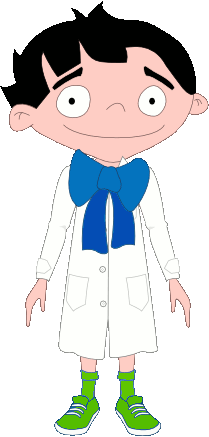
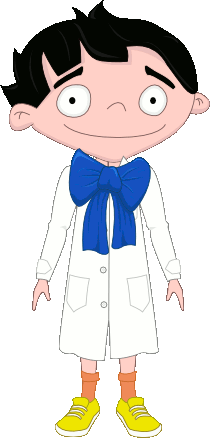
More customization Fix widget coordinates

diff --git a/Saludame.activity/customization.py b/Saludame.activity/customization.py
@@ -17,26 +17,51 @@ class CustomizationWindow(window.Window):
         self.add_child(self.kid)
         
         self.btn_close = utilities.TextButton(self.rect, pygame.Rect((770, 5), (30, 30)), 1, "X", 30, (0, 0, 0), self._cb_button_click_close)
-        self.btn_eyes = utilities.TextButton(self.rect, pygame.Rect((500, 200), (70, 30)), 1, _("Shoes"), 30, (0, 0, 0), self._cb_button_shoes)
-        self.buttons += [self.btn_close, self.btn_eyes]
-        self.widgets += [self.btn_close, self.btn_eyes]
+        self.btn_hair = utilities.TextButton(self.rect, pygame.Rect((500, 150), (70, 30)), 1, _("Hair"), 30, (0, 0, 0), self._cb_button_hair)
+        self.btn_skin = utilities.TextButton(self.rect, pygame.Rect((500, 200), (70, 30)), 1, _("Skin"), 30, (0, 0, 0), self._cb_button_skin)
+        self.btn_socks = utilities.TextButton(self.rect, pygame.Rect((500, 250), (70, 30)), 1, _("Socks"), 30, (0, 0, 0), self._cb_button_socks)
+        self.btn_shoes = utilities.TextButton(self.rect, pygame.Rect((500, 300), (70, 30)), 1, _("Shoes"), 30, (0, 0, 0), self._cb_button_shoes)
+        self.buttons += [self.btn_close, self.btn_hair, self.btn_skin, self.btn_socks, self.btn_shoes]
+        self.widgets += [self.btn_close, self.btn_hair, self.btn_skin, self.btn_socks, self.btn_shoes]
         
-        self.color_list = [pygame.Color(color) for color in ["Brown", "Black", "Green", "Gray", "Skyblue", "Blue"]]
-        self.eyes_color_index = 0
+        self.color_list = [(pygame.Color(c1), pygame.Color(c2)) for (c1, c2) in [
+            ("#7f2400", "#6a1e00" ),    #Brown
+            ("#030601", "#181917"),     #Black
+            ("#1c8500", "#166700"),     #Green
+            ("#727272", "#565656"),     #Gray
+            ("#001385", "#001385")      #Blue
+            ]
+        ]
+        self.hair_color_index = 0
+        self.skin_color_index = 0
+        self.socks_color_index = 0
+        self.shoes_color_index = 0
     
     def get_windows(self):
         return [self]
-    
 
-    #### Callbacks buttons #####
+    def _cb_button_hair(self, button):
+        self.hair_color_index += 1
+        self.hair_color_index %= len(self.color_list)
+        self.kid.set_mapping("hair", self.color_list[self.hair_color_index])
+        
+    def _cb_button_skin(self, button):
+        self.skin_color_index += 1
+        self.skin_color_index %= len(self.color_list)
+        self.kid.set_mapping("skin", self.color_list[self.skin_color_index])
+
+    def _cb_button_socks(self, button):
+        self.socks_color_index += 1
+        self.socks_color_index %= len(self.color_list)
+        self.kid.set_mapping("socks", self.color_list[self.socks_color_index])
+        
     def _cb_button_shoes(self, button):
-        self.eyes_color_index += 1
-        self.eyes_color_index %= len(self.color_list)
-        self.kid.set_mapping("eyes", self.color_list[self.eyes_color_index])
-    
+        self.shoes_color_index += 1
+        self.shoes_color_index %= len(self.color_list)
+        self.kid.set_mapping("shoes", self.color_list[self.shoes_color_index])
+        
     def _cb_button_click_close(self, button):
         self.windows_controller.close_active_window()
-    #############################
     
 MALE_PATH = os.path.normpath("customization/boy.png")
 FEMALE_PATH = os.path.normpath("customization/girl.png")
@@ -44,9 +69,11 @@ FEMALE_PATH = os.path.normpath("customization/girl.png")
 class CustomizatedKid(widget.Widget):
     
     COLOR_MAP = {
-        "hair": pygame.Color("#803300"),
-        "eyes": pygame.Color("#078002"),
-        "skin": pygame.Color("#803300")
+        "hair": (pygame.Color("#030601"), pygame.Color("#181917")),
+        #"eyes": pygame.Color("#078002"),
+        "skin": (pygame.Color("#ffd0c7"), pygame.Color("#ebbdba")),
+        "socks": (pygame.Color("#ef8a58"), pygame.Color("#a6a700")),
+        "shoes": (pygame.Color("#eee500"), pygame.Color("#ce6d30"))
     }
     
     def __init__(self, container, rect, frame_rate, surface, tooltip=None):
@@ -55,16 +82,19 @@ class CustomizatedKid(widget.Widget):
         self.mappings = CustomizatedKid.COLOR_MAP.copy()
         self.set_gender("male")
         
-        self.surface = self.sprite
+        self.background = self.kid
     
-    def set_mapping(self, key, color):
-        self.mappings[key] = color
+    def set_mapping(self, key, colors):
+        self.mappings[key] = colors
         self.apply_mappings()
         
     def apply_mappings(self):
-        self.sprite = self.background.copy()
+        self.background = self.kid.copy()
         for key in CustomizatedKid.COLOR_MAP:
-            utilities.change_color(self.sprite, CustomizatedKid.COLOR_MAP[key], self.mappings[key])
+            origin_colors = CustomizatedKid.COLOR_MAP[key]
+            mapped_colors = self.mappings[key]
+            utilities.change_color(self.background, origin_colors[0], mapped_colors[0])
+            utilities.change_color(self.background, origin_colors[1], mapped_colors[1])
         
     def set_gender(self, gender):
         path = None
@@ -76,7 +106,7 @@ class CustomizatedKid(widget.Widget):
             path = FEMALE_PATH
         
         if path:
-            self.background = pygame.image.load(path)
-            self.rect.size = self.background.get_size()
+            self.kid = pygame.image.load(path)
+            self.set_rect_size(self.kid.get_size())
             self.apply_mappings()
     

diff --git a/Saludame.activity/widget.py b/Saludame.activity/widget.py
@@ -6,26 +6,36 @@ class Widget:
     
     # Un widget representa cualquier cosa "pintable"
     
-    def __init__(self, container, rect, frame_rate, surface, tooltip=None):
+    def __init__(self, container, rect_in_container, frame_rate, surface, tooltip=None):
         self.container = container # Ventana (Rect) que "contiene" al widget
-        self.rect = rect # Rect del widget (relativo al container)
-        self.rect_in_container = pygame.Rect((self.container.left + self.rect.left,
-                                              self.container.top + self.rect.top),
-                                              (self.rect.size)) # Rect del widget (absoluto al screen)
+        self.set_rect_in_container(rect_in_container)
         self.frame_rate = frame_rate
         self.background = surface
         
         # El widget puede (opcionalmente) tener un tooltip
         self.tooltip = tooltip
         self.showing_tooltip = False
-        
+    
     def draw(self, screen):
-        screen.blit(self.background, self.rect_in_container)        
-        return self.rect_in_container  
+        screen.blit(self.background, self.rect_absolute)
+        return self.rect_absolute
     
     def force_update(self): # Forzamos la actualizacion del widget independientemente del frame_rate
         #screen.blit(self.background, self.rect_in_container)
         #pygame.display.update(self.rect_in_container)
         pass
+    
+    def set_rect_in_container(self, rect):
+        # Rect del widget (relativo al container)
+        self.rect_in_container = rect
         
-                  
+        # Rect del widget (absoluto al screen)
+        self.rect_absolute = pygame.Rect((self.container.left + self.rect_in_container.left, self.container.top + self.rect_in_container.top), (self.rect_in_container.size))
+  
+    def set_rect_size(self, size):
+        # Rect del widget (relativo al container)
+        self.rect_in_container.size = size
+        
+        # Rect del widget (absoluto al screen)
+        self.rect_absolute.size = size
+      

diff --git a/Saludame.activity/utilities.py b/Saludame.activity/utilities.py
@@ -8,7 +8,7 @@ class Text(Widget):
     def __init__(self, container, x, y, frame_rate, text, size, color):
         self.font = pygame.font.SysFont(None, size)
         self.background = self.font.render(text, True, color)
-
+        
         self.text = text
         Widget.__init__(self, container, self.background.get_rect(topleft=(x, y)), frame_rate, self.background, None)
         
@@ -41,7 +41,7 @@ class Button(Widget):
         self.over = False
         
     def contains_point(self, x, y):
-        return self.rect_in_container.collidepoint(x, y)
+        return self.rect_absolute.collidepoint(x, y)
     
     def set_tooltip(self, text):
         self.tooltip = text
